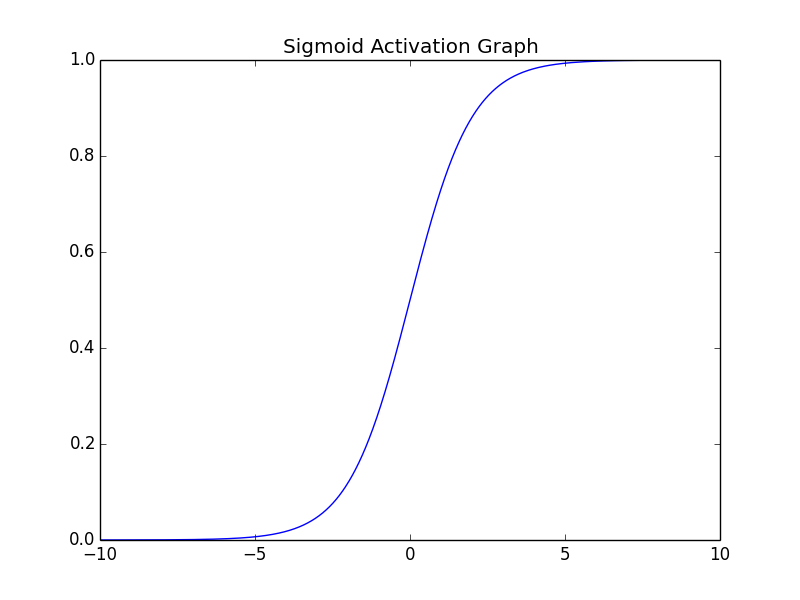
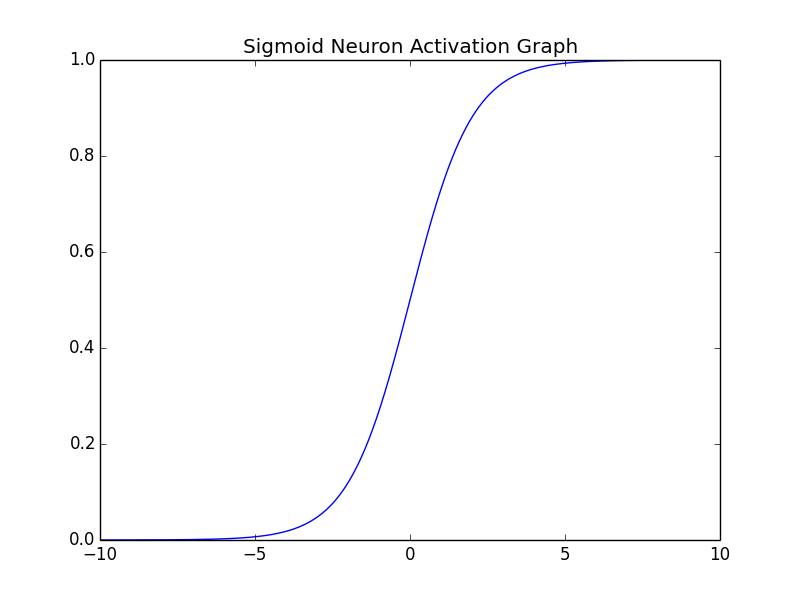
Added additional documentation images.

Changed region(s): [[0.2812, 0.06, 0.7188, 0.09]]

diff --git a/docs/analysis.py b/docs/analysis.py
@@ -2,15 +2,31 @@ import numpy as np
 import matplotlib.pyplot as plt
 
 def plot_activation_functions(neuron_type):
+    """
+    Load the text file generated by the Haskell documentation
+    script and use it to generate a png of the activation function.
+    """
     x = np.arange(-10.,10.01,0.01)
     y = np.loadtxt(neuron_type + ".txt")
+    title = neuron_type.title()
+
+    if len(neuron_type.split("_")) == 2:
+        split = neuron_type.split("_")
+        title = split[0].title() + " of " + split[1].title()
+
     plt.figure()
-    plt.title(neuron_type.title() + " Activation Graph")
+    plt.title(title + " Neuron Activation Graph")
     plt.plot(x, y)
     plt.savefig(neuron_type + ".png")
 
 def main():
-    for activation in ["sigmoid", "reclu", "tanh"]:
+    # Iterate through the activation functions and their derivatives
+    types = [
+        "sigmoid", "reclu", "tanh",
+        "derivative_sigmoid", "derivative_reclu", "derivative_tanh"
+    ]
+
+    for activation in types:
         plot_activation_functions(activation)
 
 if __name__ == '__main__':
